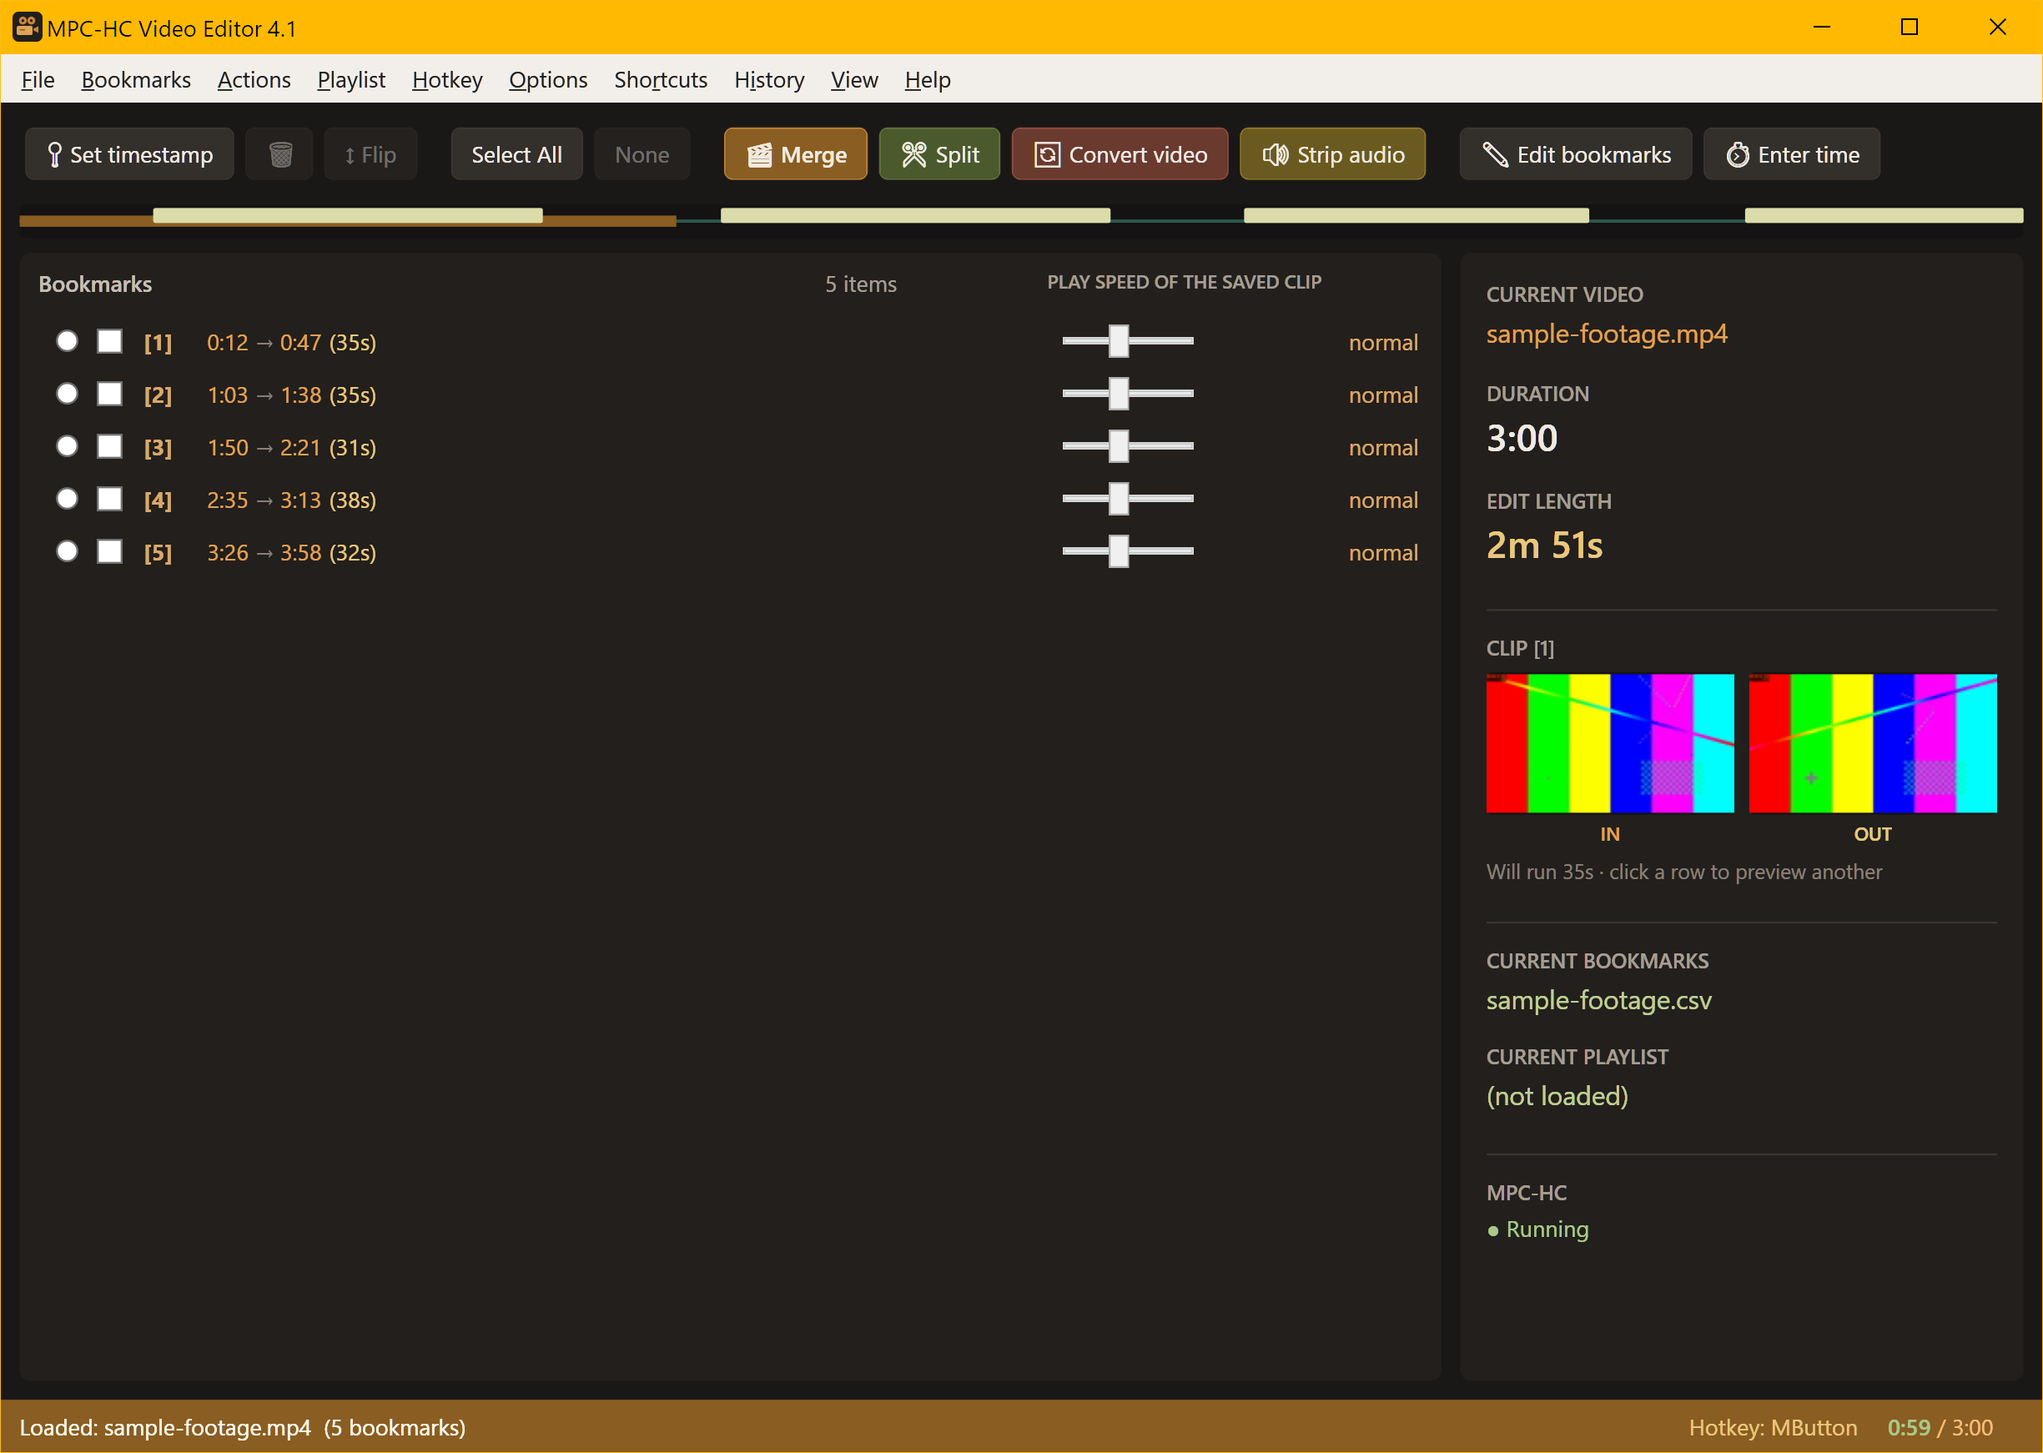
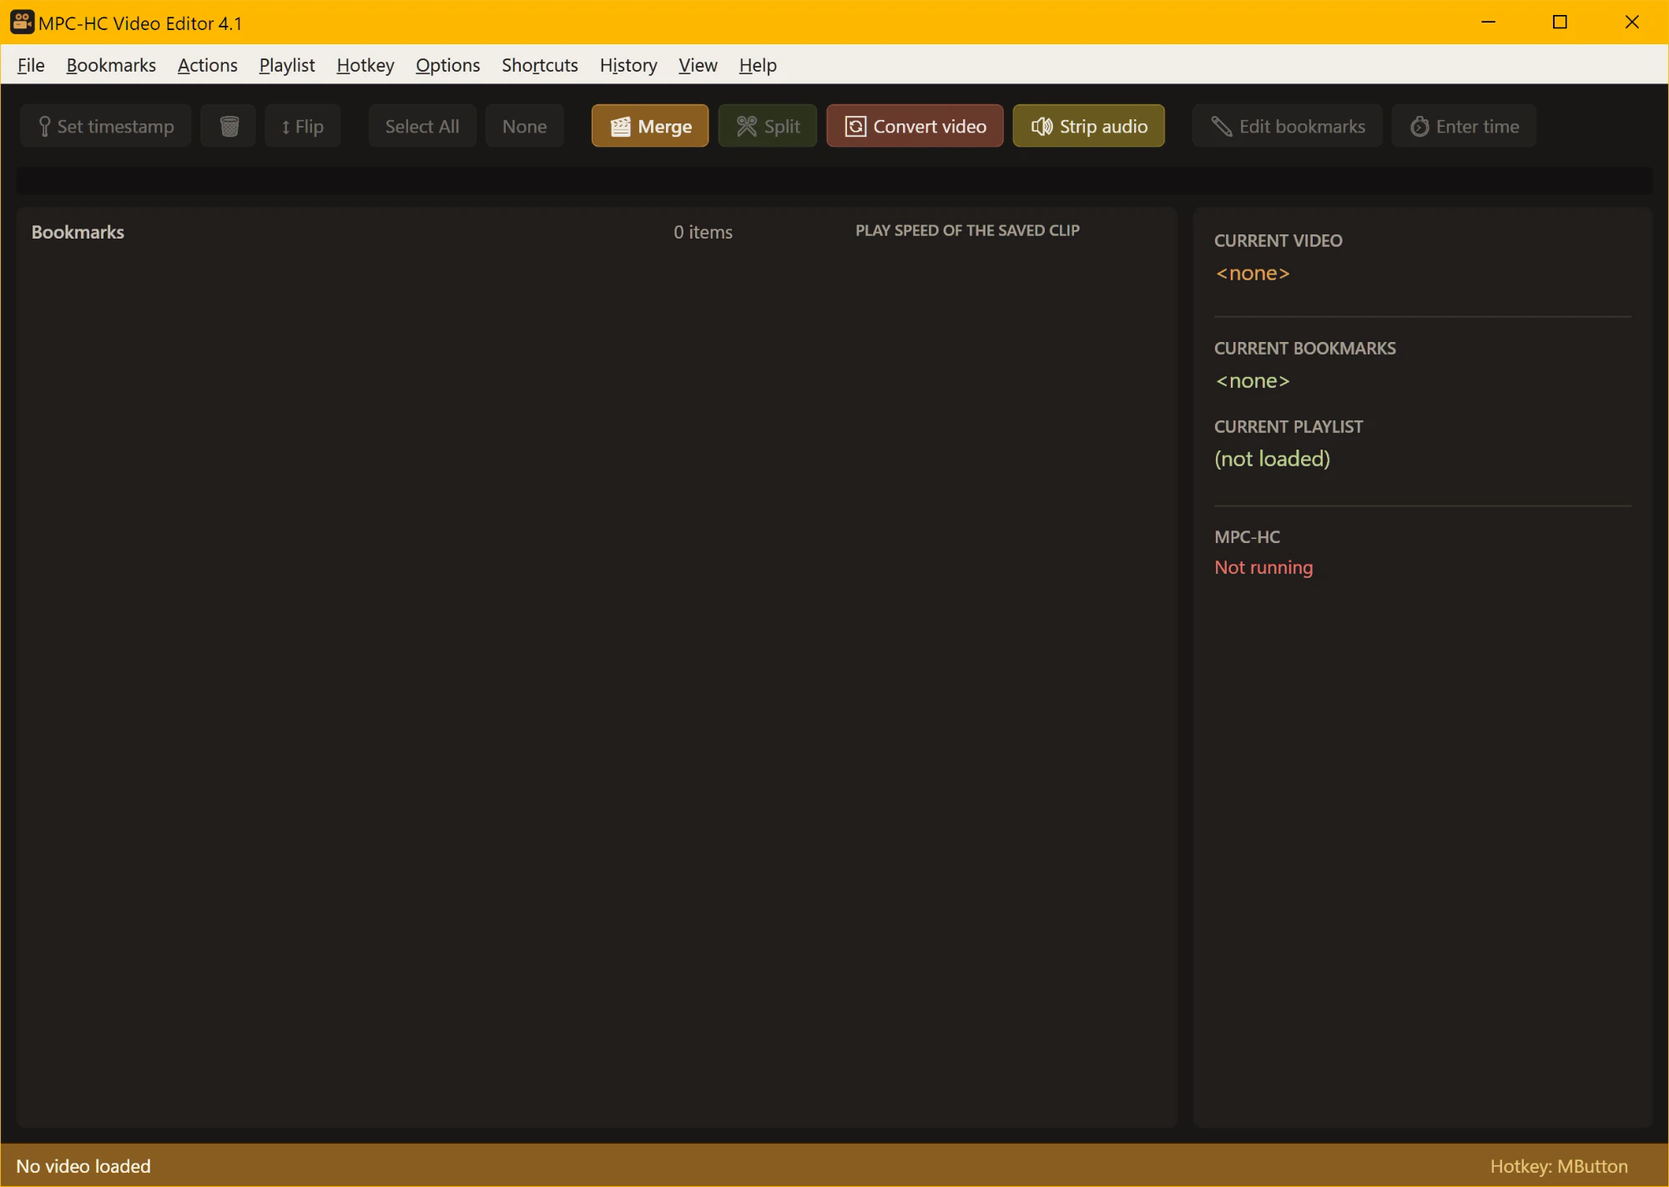
Fix a pinned overlay leaving the program with no window on screen
View > Minimal pins the overlay, and putting the overlay up hides the full
window. While pinned, focus moving to a third application hid the overlay so it
would not float over that window - but left the full window hidden behind it.
The program then had nothing on screen at all: no window, no taskbar button,
and the X key disarmed along with the overlay it belongs to. In application run
mode there is no tray icon, so the only way back was clicking MPC-HC again.

The pin now holds the mode rather than one particular window: the player having
focus puts the overlay up, anything else brings the full window back, and the
pin survives either way, so returning to the player drops straight back to the
overlay. Keyed off the player alone rather than "this app or the player" - with
the latter, clicking the restored window folded it straight back into the
overlay and made it unusable for as long as the pin lasted.

Switch views automatically was never at fault. A pin is checked ahead of the
setting by design, so a hand-pinned overlay left it no opportunity to act; that
layering is unchanged, but both paths now agree about the full window.

ApplyPinnedOverlayVisibility, OverlayVisibilityRequested, SetOverlayVisible and
_overlayShown are left with no callers by this, and are removed.

Also replaces the README screenshots with the current interface on the Graphite
theme, adds all five Settings tabs, and bumps the version to 4.2.

diff --git a/ViewModels/MainViewModel.cs b/ViewModels/MainViewModel.cs
@@ -256,30 +256,11 @@ public partial class MainViewModel : ObservableObject, IDisposable
     /// setting then carries on as before. Nothing here writes the setting —
     /// see <see cref="ShowMinimalView"/>.
     ///
-    /// Being pinned is not the same as being on screen: see
-    /// <see cref="_overlayShown"/>.
+    /// Being pinned is not the same as being on screen: the pin outlives the
+    /// overlay, which comes down whenever the player loses focus and goes back
+    /// up when it regains it. See <see cref="ApplyAutoViewSwitch"/>.
     /// </remarks>
     private bool _overlayPinned;
-
-    /// <summary>
-    /// Whether the overlay window is currently on screen, as opposed to merely
-    /// being the current view. Only ever false while <see cref="_overlayPinned"/>
-    /// holds it open behind the scenes.
-    /// </summary>
-    /// <remarks>
-    /// A pinned overlay lasts until X, but "lasts" and "is visible" are
-    /// different questions. Left purely to the pin, it sat on top of whatever
-    /// else the user switched to — a bookmark list floating over a browser.
-    /// So while pinned it is shown only when this app or MPC-HC has focus, and
-    /// hidden otherwise: the window is not closed and the pin is not dropped,
-    /// so going back to either one brings it straight back with no state lost.
-    ///
-    /// Tracked here rather than read back off the window because the View owns
-    /// the windows — the ViewModel only says what should be on screen — and
-    /// comparing against it keeps the poll from re-issuing Show or Hide several
-    /// times a second.
-    /// </remarks>
-    private bool _overlayShown;
 
     /// <summary>
     /// Whether MPC-HC had focus at the last evaluation, or null when there is
@@ -366,14 +347,37 @@ public partial class MainViewModel : ObservableObject, IDisposable
             return;
         }
 
-        // Pinned by hand, so focus does not end it and there is no edge to
-        // track — X and View ▸ Full both re-record the focus as they unpin.
-        // What focus still decides is whether it is on screen, and re-entering
-        // covers an empty list having taken it down before bookmarks returned.
+        // Pinned by hand, so focus does not end it — X and View ▸ Full are the
+        // only things that unpin. What focus still decides is which of the two
+        // windows is the one on screen, and it has to be one of them.
+        //
+        // That is the whole of this branch. The overlay used to hide itself
+        // when focus went to a third application while the full window stayed
+        // hidden behind it, so the application had nothing on screen at all: no
+        // window, no taskbar button, and the X key disarmed along with the
+        // overlay it belongs to. The notification-area icon was the only way
+        // back, and in application run mode there isn't one — leaving the
+        // program running and unreachable.
+        //
+        // Restoring the full window instead keeps the pin, so returning to the
+        // player drops straight back to the overlay on the next tick. That is
+        // what "without losing its place" was meant to mean.
+        //
+        // Keyed off the player alone rather than "this app or the player". The
+        // full window having focus is precisely the case where it should stay
+        // up: folding it back into the overlay the moment it is clicked would
+        // make the window unusable for as long as the pin lasts.
         if (_overlayPinned)
         {
-            if (!_minimalViewActive) EnterMinimalView();
-            ApplyPinnedOverlayVisibility();
+            if (_mpc.IsForeground())
+            {
+                if (!_minimalViewActive) EnterMinimalView();
+            }
+            else if (_minimalViewActive)
+            {
+                RestoreFullView(activate: false);
+            }
+
             return;
         }
 
@@ -427,63 +431,19 @@ public partial class MainViewModel : ObservableObject, IDisposable
     public event Action<bool, bool>? MinimalViewRequested;
 
     /// <summary>
-    /// Raised to show or hide the overlay window on its own, without leaving
-    /// minimal view. The full window is not touched either way.
+    /// Arms the X restore key to match whether the overlay is on screen.
     /// </summary>
     /// <remarks>
-    /// Separate from <see cref="MinimalViewRequested"/> because it is a
-    /// different question: that one swaps which view the app is in, this one
-    /// only says whether the overlay belonging to the current view is on
-    /// screen. Folding the two together would mean hiding the overlay had to
-    /// bring the full window back, which is exactly what a pinned overlay must
-    /// not do. See <see cref="_overlayShown"/>.
-    /// </remarks>
-    public event Action<bool>? OverlayVisibilityRequested;
-
-    /// <summary>
-    /// Shows the pinned overlay while this app or the player has focus, and
-    /// hides it while anything else does.
-    /// </summary>
-    /// <remarks>
-    /// Only meaningful for a pinned overlay. An automatic one is already gone
-    /// by the time focus lands anywhere else — leaving the player restores the
-    /// full window outright — so there is nothing left to hide.
+    /// X is a bare letter on a global hook: armed whenever the overlay merely
+    /// existed, it fired on the "x" in anything the user typed in another
+    /// application, and with the overlay hidden there was nothing on screen to
+    /// explain why the editor had just jumped to the front. Armed only while
+    /// the overlay is visible, the key belongs to something the user can see.
     ///
-    /// <see cref="_windowFocused"/> covers this app: in minimal view the full
-    /// window is hidden, so it is normally false, but the tray icon can put
-    /// that window back up with the overlay still pinned, and then both are on
-    /// screen and this is what keeps the overlay there.
+    /// That strands nothing: the overlay is only ever hidden with the full
+    /// window up in its place, and that window has View ▸ Full on it.
     /// </remarks>
-    private void ApplyPinnedOverlayVisibility()
-    {
-        var shouldShow = _windowFocused || _mpc.IsForeground();
-        if (shouldShow == _overlayShown) return;
-
-        SetOverlayShown(shouldShow);
-        OverlayVisibilityRequested?.Invoke(shouldShow);
-    }
-
-    /// <summary>
-    /// Records whether the overlay is on screen, and arms the X restore key to
-    /// match.
-    /// </summary>
-    /// <remarks>
-    /// The two are the same fact, so they are set in one place. X is a bare
-    /// letter on a global hook: armed whenever the overlay merely existed, it
-    /// fired on the "x" in anything the user typed in another application, and
-    /// with a pinned overlay hidden there was nothing on screen to explain why
-    /// the editor had just jumped to the front. Armed only while the overlay is
-    /// visible, the key belongs to something the user can see.
-    ///
-    /// That does not strand a hidden pinned overlay: it is hidden because
-    /// another application has focus, and clicking back to the player or this
-    /// window brings it — and the key — straight back.
-    /// </remarks>
-    private void SetOverlayShown(bool shown)
-    {
-        _overlayShown = shown;
-        _hotkeys.RestoreArmed = shown;
-    }
+    private void SetOverlayShown(bool shown) => _hotkeys.RestoreArmed = shown;
 
     /// <summary>
     /// Pins the overlay up until the user takes it down with X or View ▸ Full.
@@ -562,10 +522,7 @@ public partial class MainViewModel : ObservableObject, IDisposable
         _minimalViewActive = true;
 
         // The View shows the overlay as part of the swap, so it is on screen as
-        // of this call — and the X key is armed with it. A pinned overlay that
-        // should not be showing gets hidden again by
-        // ApplyPinnedOverlayVisibility in this same tick, before anything is
-        // rendered, which disarms the key along with it.
+        // of this call — and the X key is armed with it.
         SetOverlayShown(true);
         MinimalViewRequested?.Invoke(true, false);
     }

diff --git a/Views/MainWindow.xaml.cs b/Views/MainWindow.xaml.cs
@@ -226,23 +226,6 @@ public partial class MainWindow : Window
     }
 
     /// <summary>
-    /// Shows or hides just the overlay, leaving this window exactly as it is.
-    /// </summary>
-    /// <remarks>
-    /// This is how a pinned overlay gets out of the way of an unrelated
-    /// application without the pin being dropped — see
-    /// <see cref="MainViewModel.OverlayVisibilityRequested"/>. Deliberately
-    /// does not touch this window: bringing it back is what
-    /// <see cref="SetMinimalView"/> is for, and doing it here would undo the
-    /// pin the user asked for.
-    /// </remarks>
-    private void SetOverlayVisible(bool visible)
-    {
-        if (visible) ShowOverlay();
-        else _minimal?.Hide();
-    }
-
-    /// <summary>
     /// Creates the overlay on first use, applies its configured appearance, and
     /// shows it.
     /// </summary>
@@ -340,7 +323,6 @@ public partial class MainWindow : Window
         _wired = true;
 
         _vm.MinimalViewRequested += SetMinimalView;
-        _vm.OverlayVisibilityRequested += SetOverlayVisible;
 
         // The tray icon belongs to the window, not the ViewModel, so the
         // ViewModel just says when the setting changed.

diff --git a/README.md b/README.md
@@ -5,7 +5,7 @@ Modern rewrite of the original AutoHotkey **MPC-HC Video Editor v2.1**.
 Bookmark ranges in a video playing in MPC-HC, then cut, join, convert or
 extract audio from them with ffmpeg.
 
-![The main window with five bookmark pairs, the audio waveform and range marks along the timeline, and a preview of the selected clip's first and last frame](Assets/screenshots/main-window.png)
+![The compact overlay in the top-right corner of a video playing in MPC-HC, listing three timestamp pairs with their start, end and duration](Assets/screenshots/minimal-overlay.png)
 
 **Fully portable.** Everything the app writes — `settings.json`, `stalls.log` —
 lives beside the executable. Nothing goes to `%APPDATA%` and there is no
@@ -17,18 +17,43 @@ an earlier non-portable install's configuration carries over.
 
 ## Screenshots
 
-The compact overlay, for when the video covers the window. It is click-through,
-never takes focus, and lists every bookmark without scrolling:
+The overlay above is what you work in while the video is playing — it is
+click-through, never takes focus, and lists every bookmark without scrolling.
 
-![The minimal overlay in the corner of a video playing in MPC-HC, listing every timestamp pair](Assets/screenshots/minimal-overlay.png)
+The full window is the other half: the bookmark list and its per-cut controls,
+the action toolbar, and the current video, bookmarks and player state down the
+right-hand side.
 
-Naming tags — the bracket suffix every output gets, switchable from the menu:
-
-![The Options menu showing the current rename tag, an example filename, and the list of tags to switch between](Assets/screenshots/naming-tags.png)
+![The main window on the Graphite theme, showing an empty bookmark list, the action toolbar, and the panel reporting no video loaded and MPC-HC not running](Assets/screenshots/main-window.png)
 
 Settings, in five tabs:
 
-<img src="Assets/screenshots/settings.png" alt="The Settings window on the General tab, showing the colour theme picker, the run mode and the single-instance options" width="480">
+<table>
+<tr>
+<td width="50%"><img src="Assets/screenshots/settings-general.png" alt="The Settings window on the General tab, showing the colour theme picker, the run mode and the single-instance options" width="100%"></td>
+<td width="50%"><img src="Assets/screenshots/settings-output.png" alt="The Output tab, showing the default output format, the encoding quality and the H.264 encoder choice with unavailable GPU encoders greyed out" width="100%"></td>
+</tr>
+<tr>
+<td><strong>General</strong> — theme, run mode, instances</td>
+<td><strong>Output</strong> — format, quality, encoder</td>
+</tr>
+<tr>
+<td width="50%"><img src="Assets/screenshots/settings-cleanup.png" alt="The Cleanup tab, showing what happens to the original video and the bookmarks file after an operation, and the Recycle Bin option" width="100%"></td>
+<td width="50%"><img src="Assets/screenshots/settings-player.png" alt="The Player tab, showing the detected MPC-HC web interface port, the polling speed and the ffmpeg folder" width="100%"></td>
+</tr>
+<tr>
+<td><strong>Cleanup</strong> — what is deleted, and where it goes</td>
+<td><strong>Player</strong> — web interface port, polling, ffmpeg</td>
+</tr>
+<tr>
+<td width="50%"><img src="Assets/screenshots/settings-overlay.png" alt="The Overlay tab, showing the corner the compact overlay parks in and its background opacity" width="100%"></td>
+<td></td>
+</tr>
+<tr>
+<td><strong>Overlay</strong> — corner and background opacity</td>
+<td></td>
+</tr>
+</table>
 
 ---
 
@@ -105,14 +130,16 @@ renamed — only what the app is about to write has to comply.
   takes focus, and it makes MPC-HC the active window as it switches, so the
   result is the same whatever happened to be behind this window. The pin lasts
   until you press **X** or pick **Full** — no amount of clicking between windows
-  ends it. While pinned it shows whenever this app or MPC-HC has focus and hides
-  while anything else does, so it stays out of the way of an unrelated window
-  without being closed or losing its place. Disabled when there are no
-  bookmarks — the overlay is the bookmark list, so there would be nothing in it.
+  ends it. What the pin holds is the *mode*, not one window: the overlay is up
+  while MPC-HC has focus, and the full window comes back whenever it does not,
+  so the overlay never floats over an unrelated application and the program is
+  never left with nothing on screen. Going back to the player returns to the
+  overlay without the pin being dropped. Disabled when there are no bookmarks —
+  the overlay is the bookmark list, so there would be nothing in it.
 - **X** is live only while the overlay is actually on screen, so a stray "x"
-  typed in another application cannot pull this window back. If a pinned overlay
-  has hidden itself, click MPC-HC (or this window) to bring it back and X works
-  again.
+  typed in another application cannot pull this window back. Nothing is stranded
+  by that: whenever the overlay is down the full window is up in its place, and
+  **View ▸ Full** there ends the pin just as X would.
 - **View ▸ Full** returns to the normal window.
 - **View ▸ Switch views automatically** makes the view follow focus instead:
   minimal while MPC-HC is the active window, full window as soon as it is not.

diff --git a/RELEASE-4.2.md b/RELEASE-4.2.md
@@ -1,0 +1,68 @@
+# MPC-HC Video Editor 4.2
+
+A bug fix. The compact overlay could take the whole program off the screen with
+it.
+
+## The overlay no longer leaves the program with nothing on screen
+
+**View ▸ Minimal** pins the overlay, and putting the overlay up hides the full
+window — that is the swap it exists to make. While it was pinned, moving focus
+to some third application — a browser, a file manager, anything that is not
+MPC-HC — hid the overlay so it would not float over that window, but left the
+full window hidden behind it.
+
+The program then had nothing on screen at all: no window, no taskbar button,
+and the **X** key disarmed along with the overlay it belongs to, because X is
+deliberately live only while there is an overlay to explain it.
+
+In notification-area mode the tray icon still brought it back. In application
+mode there is no tray icon, so the only way back was clicking MPC-HC again —
+the program was running and, to anyone who had switched to something else,
+gone.
+
+The pin now holds the *mode* rather than one particular window. With the
+overlay pinned:
+
+- MPC-HC has focus → the overlay is up, exactly as before.
+- Anything else has focus → the full window comes back, and the pin is kept.
+- Returning to the player drops straight back to the overlay.
+
+So the overlay still stays out of the way of an unrelated window, which is what
+hiding it was for, and one of the two windows is always on screen.
+
+**View ▸ Switch views automatically** was not at fault and has not changed. It
+is worth stating plainly why it looked broken: a pin is checked before the
+setting, by design, so once the overlay had been pinned by hand the setting had
+no opportunity to act. That layering is unchanged — but both paths now agree
+about the full window, so it is no longer something that can strand you.
+
+## Screenshots
+
+The images on the project page were stale — they still showed the pre-4.1
+appearance. They are now the current interface on the Graphite theme, including
+all five Settings tabs.
+
+## Requirements
+
+- Windows, .NET 8 desktop runtime
+- MPC-HC with the web interface enabled (Options ▸ Player ▸ Web Interface) —
+  the program detects the port itself and says plainly if the interface is off
+- ffmpeg and ffprobe are bundled. Your own build dropped beside the executable
+  still takes precedence.
+
+## Verify your download
+
+```powershell
+Get-FileHash -Algorithm SHA256 .\MPC-HC.Video.Editor.zip
+```
+
+| File | SHA-256 |
+| ---- | ------- |
[5 lines of base64/hex data omitted]
+
+FFmpeg is unchanged — still 9.0.1, GPL v3, from
+[BtbN/FFmpeg-Builds](https://github.com/BtbN/FFmpeg-Builds).

diff --git a/SECURITY.md b/SECURITY.md
@@ -11,8 +11,8 @@ known to be weak, and how to report something that isn't listed here.
 
 | Version | Supported |
 | ------- | --------- |
-| 4.1     | Yes       |
-| 4.0 and earlier | No |
+| 4.2     | Yes       |
+| 4.1 and earlier | No |
 
 Versions are two-part from 4.0 onward — 4.0, 4.1, 4.2 — rather than the
 three-part 3.0.x scheme that came before.
